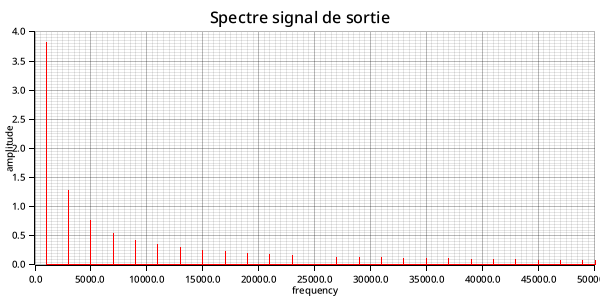
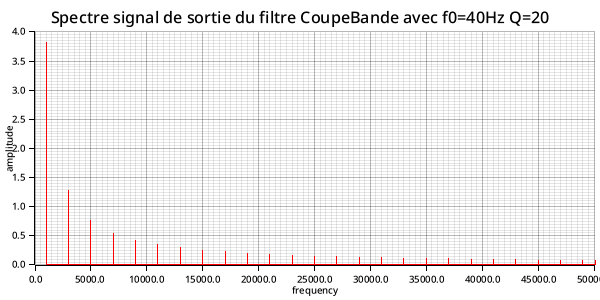
[CN5]: +all graph for compte_rendu

Changed region(s): [[0.09, 0.03, 0.93, 0.09]]

diff --git a/CN_5_effet_filtrage/src/main.rs b/CN_5_effet_filtrage/src/main.rs
@@ -19,49 +19,39 @@ use crate::{
     fft::{compute_fft, evaluation_point, generate_signal, generate_triangle_wave, FFTResult},
     filtrage::draw_filtrage,
     filtre::{
-        FiltrePasseBande, FiltrePasseBas2nd, FiltrePasseHaut2nd, FiltreRejecteur, FiltreTrait,
+        FiltrePasseBande, FiltrePasseBas1er, FiltrePasseBas2nd, FiltrePasseHaut1er,
+        FiltrePasseHaut2nd, FiltreRejecteur, FiltreTrait,
     },
-    plot::draw_plot,
+    plot::{draw_fft, draw_plot},
 };
 
 fn main() {
+    filtrage_square_wave()
+}
+
+fn filtrage_triangle_wave() {
     const N: usize = 2_usize.pow(14) - 1;
     const WIDTH: Range<f64> = 0.0..0.002;
-    let in_signal = generate_square_wave(1000.0, -2.0..4.0);
-    let filtre = FiltreRejecteur::new(1.0, 25.0 * 1000.0, 20.0);
-    let report = filtrage(&in_signal, &filtre, N, &WIDTH, &(0.0..50_000.0), Some(1.0));
+    let in_signal = generate_triangle_wave(1000.0, 0.0..2.0);
+    let filtre = FiltrePasseBande::new(1.0, 25.0 * 1000.0, 0.2);
+    let report = filtrage(&in_signal, &filtre, N, &WIDTH, &(0.0..50_000.0), None);
     draw_filtrage(&report);
 }
 
-fn test_square_from_fft() {
+fn filtrage_square_wave() {
     const N: usize = 2_usize.pow(14) - 1;
     const WIDTH: Range<f64> = 0.0..0.002;
-    let signal = generate_square_wave(1000.0, -2.0..4.0);
-    let signal_in = evaluation_point(N, &WIDTH, &signal);
-    let FFTResult { peaks, .. } = compute_fft(&signal_in, &WIDTH);
-
-    let signal_out_func = generate_signal(
-        peaks.into_iter().map(|(f, amp)| (f, amp, 0.0)).collect(),
-        None,
-    );
-    let signal_out = evaluation_point(N, &WIDTH, &signal_out_func);
-
-    draw_plot(
-        "square_from_fft.png",
-        "test square from fft",
-        WIDTH,
-        ("t (s)", ""),
-        None,
-        vec![&signal_in, &signal_out],
-    )
-    .expect("Failed to plot");
+    let in_signal = generate_square_wave(1000.0, -2.0..4.0);
+    let filtre = FiltreRejecteur::new(1.0, 0.04 * 1000.0, 20.0);
+    let report = filtrage(&in_signal, &filtre, N, &WIDTH, &(0.0..50_000.0), Some(1.0));
+    draw_filtrage(&report);
 }
 
 fn filtrage_sinus_signal() {
     const N: usize = 2_usize.pow(14) - 1;
     const WIDTH: Range<f64> = 0.0..0.010;
     let in_signal = generate_signal(vec![(200.0, 1.0, 0.0), (1800.0, 1.0, 0.0)], None);
-    let coupe_bande = FiltreRejecteur::new(1.0, 200.0, 0.2);
+    let coupe_bande = FiltrePasseBande::new(1.0, 200.0, 20.0);
     let report = filtrage(&in_signal, &coupe_bande, N, &WIDTH, &(0.0..2000.0), None);
     draw_filtrage(&report);
 }
@@ -94,6 +84,7 @@ fn plot_gain_phase() {
         ("f", "gain"),
         None,
         vec![&ph_gpoints],
+        None,
     )
     .expect("Failed to plot");
     draw_plot(
@@ -103,6 +94,7 @@ fn plot_gain_phase() {
         ("f", "gain"),
         None,
         vec![&pb_gpoints],
+        None,
     )
     .expect("Failed to plot");
     draw_plot(
@@ -112,6 +104,7 @@ fn plot_gain_phase() {
         ("f", "gain"),
         None,
         vec![&pbd_gpoints],
+        None,
     )
     .expect("Failed to plot");
     draw_plot(
@@ -121,6 +114,7 @@ fn plot_gain_phase() {
         ("f", "gain"),
         None,
         vec![&cb_gpoints],
+        None,
     )
     .expect("Failed to plot");
 
@@ -132,6 +126,7 @@ fn plot_gain_phase() {
         ("f", "phase"),
         None,
         vec![&ph_ppoints],
+        None,
     )
     .expect("Failed to plot");
     draw_plot(
@@ -141,6 +136,7 @@ fn plot_gain_phase() {
         ("f", "phase"),
         None,
         vec![&pb_ppoints],
+        None,
     )
     .expect("Failed to plot");
     draw_plot(
@@ -150,6 +146,7 @@ fn plot_gain_phase() {
         ("f", "phase"),
         None,
         vec![&pbd_ppoints],
+        None,
     )
     .expect("Failed to plot");
     draw_plot(
@@ -159,6 +156,7 @@ fn plot_gain_phase() {
         ("f", "phase"),
         None,
         vec![&cb_ppoints],
+        None,
     )
     .expect("Failed to plot");
 }
@@ -171,10 +169,7 @@ fn fft_triangle_test() {
     let points = evaluation_point(N, &WIDTH, &square);
 
     // compute fft
-    let FFTResult {
-        fft_amp: fft_points,
-        ..
-    } = compute_fft(&points, &WIDTH);
+    let FFTResult { peaks, .. } = compute_fft(&points, &WIDTH);
 
     // draw the datas
     draw_plot(
@@ -184,15 +179,14 @@ fn fft_triangle_test() {
         ("x", "y"),
         None,
         vec![&points],
+        None,
     )
     .expect("Failed to plot");
-    draw_plot(
+    draw_fft(
         "triangle_fft_result.png",
         "Frequency response",
         0.0..100.0,
-        ("frequency", "amplitude"),
-        None,
-        vec![&fft_points],
+        &peaks,
     )
     .expect("Failed to plot");
 }
@@ -205,10 +199,7 @@ fn fft_square_test() {
     let points = evaluation_point(N, &WIDTH, &square);
 
     // compute fft
-    let FFTResult {
-        fft_amp: fft_points,
-        ..
-    } = compute_fft(&points, &WIDTH);
+    let FFTResult { peaks, .. } = compute_fft(&points, &WIDTH);
 
     // draw the datas
     draw_plot(
@@ -218,15 +209,14 @@ fn fft_square_test() {
         ("x", "y"),
         None,
         vec![&points],
+        None,
     )
     .expect("Failed to plot");
-    draw_plot(
+    draw_fft(
         "square_fft_result.png",
         "Frequency response",
         0.0..100.0,
-        ("frequency", "amplitude"),
-        None,
-        vec![&fft_points],
+        &peaks,
     )
     .expect("Failed to plot");
 }
@@ -239,12 +229,7 @@ fn fft_basic_test() {
     let points = evaluation_point(N, &WIDTH, &sin);
 
     // compute fft
-    let FFTResult {
-        fft_amp: fft_points,
-        peaks,
-        ..
-    } = compute_fft(&points, &WIDTH);
-    println!("{peaks:?}");
+    let FFTResult { peaks, .. } = compute_fft(&points, &WIDTH);
 
     // draw the datas
     draw_plot(
@@ -254,15 +239,14 @@ fn fft_basic_test() {
         ("x", "y"),
         None,
         vec![&points],
+        None,
     )
     .expect("Failed to plot");
-    draw_plot(
+    draw_fft(
         "sin_fft_result.png",
         "Frequency response",
         0.0..2000.0,
-        ("frequency", "amplitude"),
-        None,
-        vec![&fft_points],
+        &peaks,
     )
     .expect("Failed to plot");
 }

diff --git a/CN_5_effet_filtrage/src/plot.rs b/CN_5_effet_filtrage/src/plot.rs
@@ -27,6 +27,7 @@ pub fn draw_fft(
         ("frequency", "amplitude"),
         Some((600, 300)),
         vec![&fft_points_to_vertical_lines(peaks)],
+        None,
     )
 }
 
@@ -37,8 +38,16 @@ pub fn draw_plot(
     (legend_x, legend_y): (&str, &str),
     size: Option<(u32, u32)>,
     lines: Vec<&XyScatter>,
+    lines_legend: Option<Vec<&str>>,
 ) -> Result<(), Box<dyn std::error::Error>> {
     assert!(lines.len() <= 7);
+    let (is_line_legend, lines_legend) = match lines_legend {
+        Some(ll) => {
+            assert_eq!(lines.len(), ll.len(), "each lines must have a legend");
+            (true, ll)
+        }
+        None => (false, vec![]),
+    };
 
     let (mut max_y, mut min_y) = (None::<f64>, None::<f64>);
     for datas in &lines {
@@ -85,11 +94,24 @@ pub fn draw_plot(
         .draw()?;
 
     const COLORS: [RGBColor; 7] = [RED, BLUE, GREEN, BLACK, YELLOW, CYAN, MAGENTA];
-    for (i, datas) in lines.iter().enumerate() {
-        chart.draw_series(LineSeries::new(
+    for (i, datas) in lines.into_iter().enumerate() {
+        let serie = chart.draw_series(LineSeries::new(
             datas.iter().map(|&(x, y)| (x, y)),
             &COLORS[i],
         ))?;
+        if is_line_legend {
+            serie
+                .label(lines_legend[i])
+                .legend(move |(x, y)| PathElement::new(vec![(x, y), (x + 20, y)], COLORS[i]));
+        }
+    }
+
+    if is_line_legend {
+        chart
+            .configure_series_labels()
+            .background_style(WHITE.mix(0.8))
+            .border_style(BLACK)
+            .draw()?;
     }
 
     root.present()?;

diff --git a/CN_5_effet_filtrage/src/filtrage.rs b/CN_5_effet_filtrage/src/filtrage.rs
@@ -71,6 +71,7 @@ pub fn draw_filtrage(report: &FiltrageReport) {
         ("t (s)", ""),
         None,
         vec![&report.signal_input, &report.signal_ouput],
+        Some(vec!["Entrée", "Sortie"]),
     )
     .expect("Failed to plot");
     draw_fft(
@@ -82,7 +83,12 @@ pub fn draw_filtrage(report: &FiltrageReport) {
     .expect("Failed to plot");
     draw_fft(
         "filtrage/fft_out.png",
-        "Spectre signal de sortie",
+        &format!(
+            "Spectre signal de sortie du filtre {:?} avec f0={}Hz Q={}",
+            report.filtre_caracteristique.filtre_type,
+            (report.filtre_caracteristique.omega0 / (2.0 * PI)).round(),
+            report.filtre_caracteristique.q,
+        ),
         report.width_frequence.clone(),
         &report.fft_output,
     )
@@ -99,6 +105,7 @@ pub fn draw_filtrage(report: &FiltrageReport) {
         ("frequency", "gain"),
         Some((600, 300)),
         vec![&report.gain_graph],
+        None,
     )
     .expect("Failed to plot");
     draw_plot(
@@ -113,6 +120,7 @@ pub fn draw_filtrage(report: &FiltrageReport) {
         ("frequency", "phase"),
         Some((600, 300)),
         vec![&report.phase_graph],
+        None,
     )
     .expect("Failed to plot");
 }

diff --git a/CN_5_effet_filtrage/src/filtre.rs b/CN_5_effet_filtrage/src/filtre.rs
@@ -1,4 +1,7 @@
-use std::{f64::consts::PI, ops::Range};
+use std::{
+    f64::{consts::PI, NAN},
+    ops::Range,
+};
 
 use crate::{
     fft::{evaluation_point, XyScatter},
@@ -56,7 +59,7 @@ impl FiltreTrait for FiltrePasseHaut1er {
             filtre_type: FiltreType::PasseHaut1er,
             h0: self.h0,
             omega0: self.omega0,
-            q: -1.0,
+            q: NAN,
         }
     }
 
@@ -92,7 +95,7 @@ impl FiltreTrait for FiltrePasseBas1er {
             filtre_type: FiltreType::PasseBas1er,
             h0: self.h0,
             omega0: self.omega0,
-            q: -1.0,
+            q: NAN,
         }
     }
 
@@ -105,7 +108,7 @@ impl FiltreTrait for FiltrePasseBas1er {
     fn phase_at(&self, f: f64) -> f64 {
         let pulsation = 2.0 * PI * f;
         let x = pulsation / self.omega0;
-        x.atan()
+        -x.atan()
     }
 }
 
